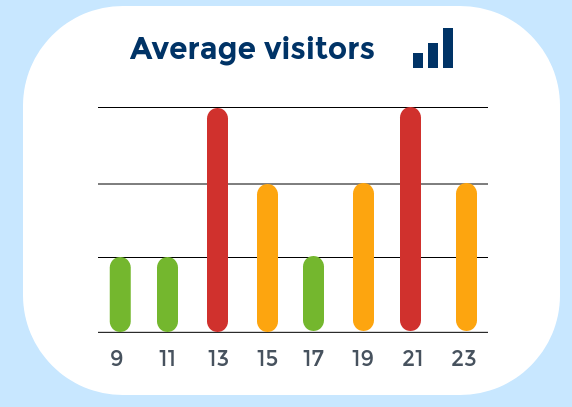
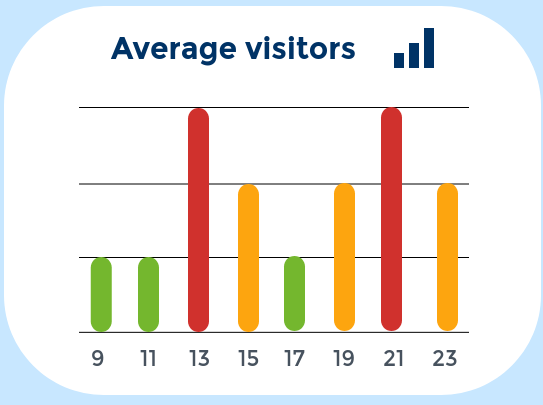
more locationProfile fixes

diff --git a/exploringPortugal/css/locationsStyle.css b/exploringPortugal/css/locationsStyle.css
@@ -120,69 +120,102 @@ html {
 .lowerMenu {
     background-color: #C8E7FF;
     height: 100vh;
+    display: flex;
+    column-gap: 10px;
+}
+
+.lowerMenu .lowerRight {
+    display: flex;
+    flex-direction: column;
+}
+
+.lowerMenu .lowerLeft {
+    display: flex;
+    flex-direction: column;
+}
+
+.lowerMenu .lowerRight .images {
+    display: flex;
+    column-gap: 5px;
 }
 
 .lowerMenu .weatherThursday {
-    position: absolute;
-    float: right;
-    width: 400px;
-    margin-top: 7px;
-    margin-left: 1110px;
+    /*position: absolute;*/
+    /*float: right;*/
+    width: 26.9vw;
+    /*margin-top: 7px;
+    margin-left: 1110px;*/
+    margin-top: 10px;
 }
 
 .lowerMenu .averageVisitors {
-    position: absolute;
-    float: right;
-    width: 400px;
-    margin-top: 130px;
-    margin-left: 1100px;
+    /*position: absolute;*/
+    /*float: right;*/
+    width: 26.9vw;
+    /*margin-top: 130px;
+    margin-left: 1100px;*/
 }
 
 .lowerMenu .gallery{
     font-size: 22px;
-    position: absolute;
+    /*position: absolute;*/
     margin-top: 12px;
-    margin-left: 50px;
+    /*margin-left: 1.46vw;*/
     background-color: white;
     height: 280px;
-    width: 1030px;
+    /*width: 1030px;*/
     color: #003366;
-    padding-top: 15px;
+    padding-top: 10px;
     border-radius: 50px;
+    display: flex;
+    flex-direction: column;
+    row-gap: 12px;
+}
+
+.lowerMenu .lowerRight .gallery .gallery-slider {
+    display: flex;
+    align-items: center;
+    column-gap: 10px;
+    margin-left: 5px;
+    margin-right: 5px;
 }
 
 .lowerMenu .gallery .gallery1 {
-    margin-top: 10px;
-    position: absolute;
+    /*margin-top: 10px;*/
+    /*position: absolute;*/
     height: 200px;
-    padding-left: 80px;
+    /*padding-left: 80px;*/
 } 
 
 .lowerMenu .gallery .gallery2 {
-    margin-top: 10px;
-    margin-left: 220px;
-    position: absolute;
+    /*margin-top: 10px;
+    margin-left: 220px;*/
+    /*position: absolute;*/
     height: 200px;
-    padding-left: 80px;
+    /*padding-left: 80px;*/
+    max-width: 340px;
+    width: 300px;
 } 
 
 .lowerMenu .gallery .gallery3 {
-    margin-top: 10px;
-    margin-left: 570px;
-    position: absolute;
+    /*margin-top: 10px;
+    margin-left: 570px;*/
+    /*position: absolute;*/
     height: 200px;
-    padding-left: 80px;
+    /*padding-left: 80px;*/
 } 
 
 .lowerMenu .comments {
-    position: absolute;
-    height: 400px;
-    width: 1030px;
+    /*position: absolute;*/
+    /*height: 400px;
+    width: 1030px;*/
     background-color: white;
-    margin-top: 310px;
+    /*margin-top: 310px;
     margin-left: 50px;
-    padding-left: 80px;
+    padding-left: 80px;*/
     border-radius: 50px;
+    /*margin-left: 1.46vw;*/
+    margin-top: 20px;
 }
 
 .lowerMenu .comments .commentsTitle{
@@ -190,35 +223,38 @@ html {
     color: #003366;
     padding-top: 15px;
     border-radius: 50px;
+    padding-left: 25px;
 }
 
 .lowerMenu .comments .commentSection {
     width: 870px;
     font-size: 15px;
-    margin-top: 15px;
+    /*margin-top: 15px;*/
     padding-top: 7px;
     padding-bottom: 7px;
     padding-left: 15px;
     border-radius: 50px;
+    margin: 10px 20px;
 }
 
 .lowerMenu .gallery .previousButton {
     filter: invert(14%) sepia(28%) saturate(6196%) hue-rotate(195deg) brightness(91%) contrast(102%);
-    position: absolute;
-    margin-top: 80px;
-    margin-left: 20px;
+    /*position: absolute;*/
+    /*margin-top: 80px;
+    margin-left: 20px;*/
     width: 35px;
     transform:rotate(180deg);
 }
 
 .lowerMenu .gallery .nextButton {
     filter: invert(14%) sepia(28%) saturate(6196%) hue-rotate(195deg) brightness(91%) contrast(102%);
-    position: absolute;
+    /*position: absolute;*/
     width: 35px;
-    margin-top: 80px;
-    margin-left: 970px;
+    /*margin-top: 80px;
+    margin-left: 970px;*/
 }
 
 .lowerMenu .gallery .galleryTitle{
     margin-left: 80px;
+    font-weight: bold;
 }

diff --git a/exploringPortugal/html/locationsProfile.html b/exploringPortugal/html/locationsProfile.html
@@ -101,19 +101,29 @@
         <button class="follow">Follow</button>
     </div>
     <div class="lowerMenu">
-        <img src="../../images/weatherThursday.png" class="weatherThursday">
-        <img src="../../images/averageVisitors.png" class="averageVisitors">
-        <div class="gallery">
-           <div class="galleryTitle"><b>Gallery</b></div>
-           <img src="../../images/nextButton.png" class="previousButton">
-           <img src="../../images/nextButton.png" class="nextButton">
-           <img src="../../images/pratoCheio.webp" class="gallery1">
-           <img src="../../images/pastel-de-nata.jpg" class="gallery2">
-           <img src="../../images/bife.webp" class="gallery3">
+        <div class="lowerRight">
+            <div class="gallery">
+                <p class="galleryTitle">Gallery</p>
+                <div class="gallery-slider">
+                    <img src="../../images/nextButton.png" class="previousButton">
+                    <div class="images">
+                        <img src="../../images/pratoCheio.webp" class="gallery1">
+                        <img src="../../images/pastel-de-nata.jpg" class="gallery2">
+                        <img src="../../images/bife.webp" class="gallery3">
+                    </div>
+                    <img src="../../images/nextButton.png" class="nextButton">
+                </div>
+                
+            </div>
+            <div class="comments">
+                    <div class="commentsTitle"><b>Comments</b></div>
+                    <input type="text" class="commentSection" placeholder="Add a comment..."><br><br>
+            </div>
         </div>
-        <div class="comments">
-            <div class="commentsTitle"><b>Comments</b></div>
-            <input type="text" class="commentSection" placeholder="Add a comment..."><br><br>
+       
+        <div class="lowerLeft">
+            <img src="../../images/weatherThursday.png" class="weatherThursday">
+            <img src="../../images/averageVisitors.png" class="averageVisitors">
         </div>
     </div>
 
